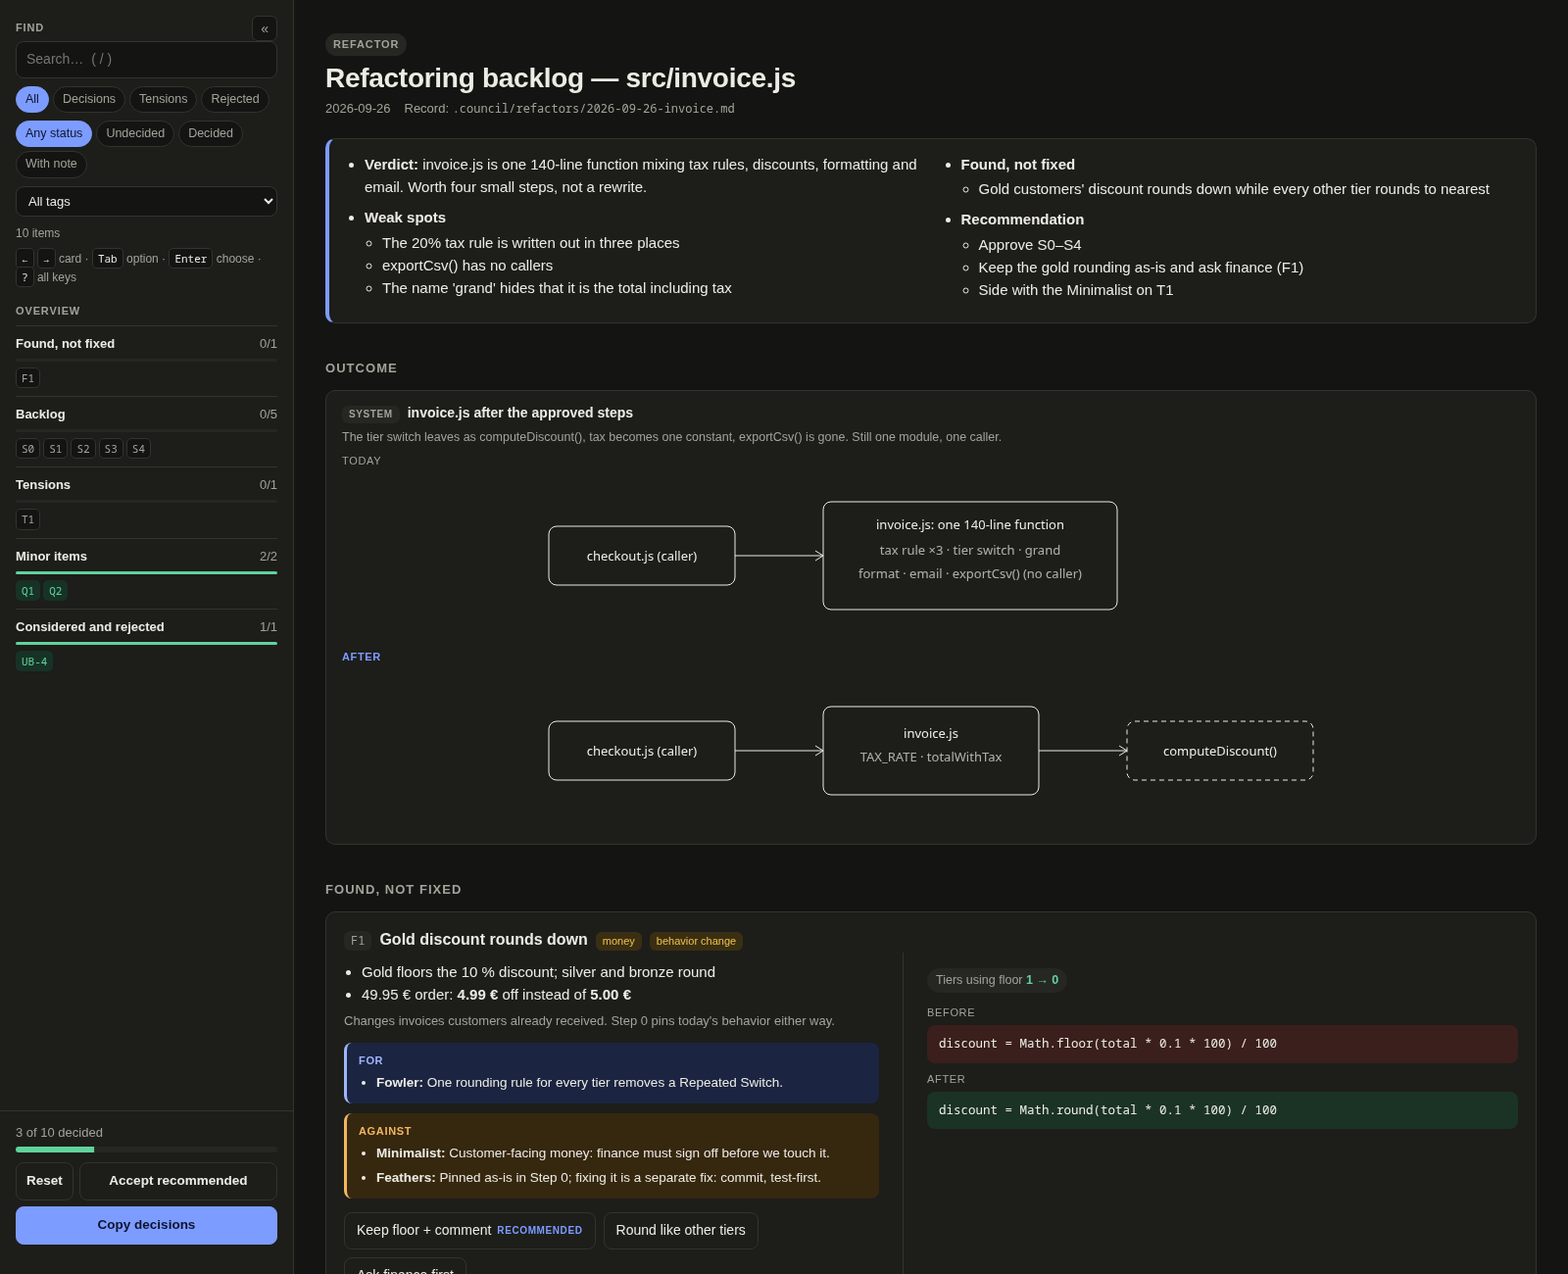
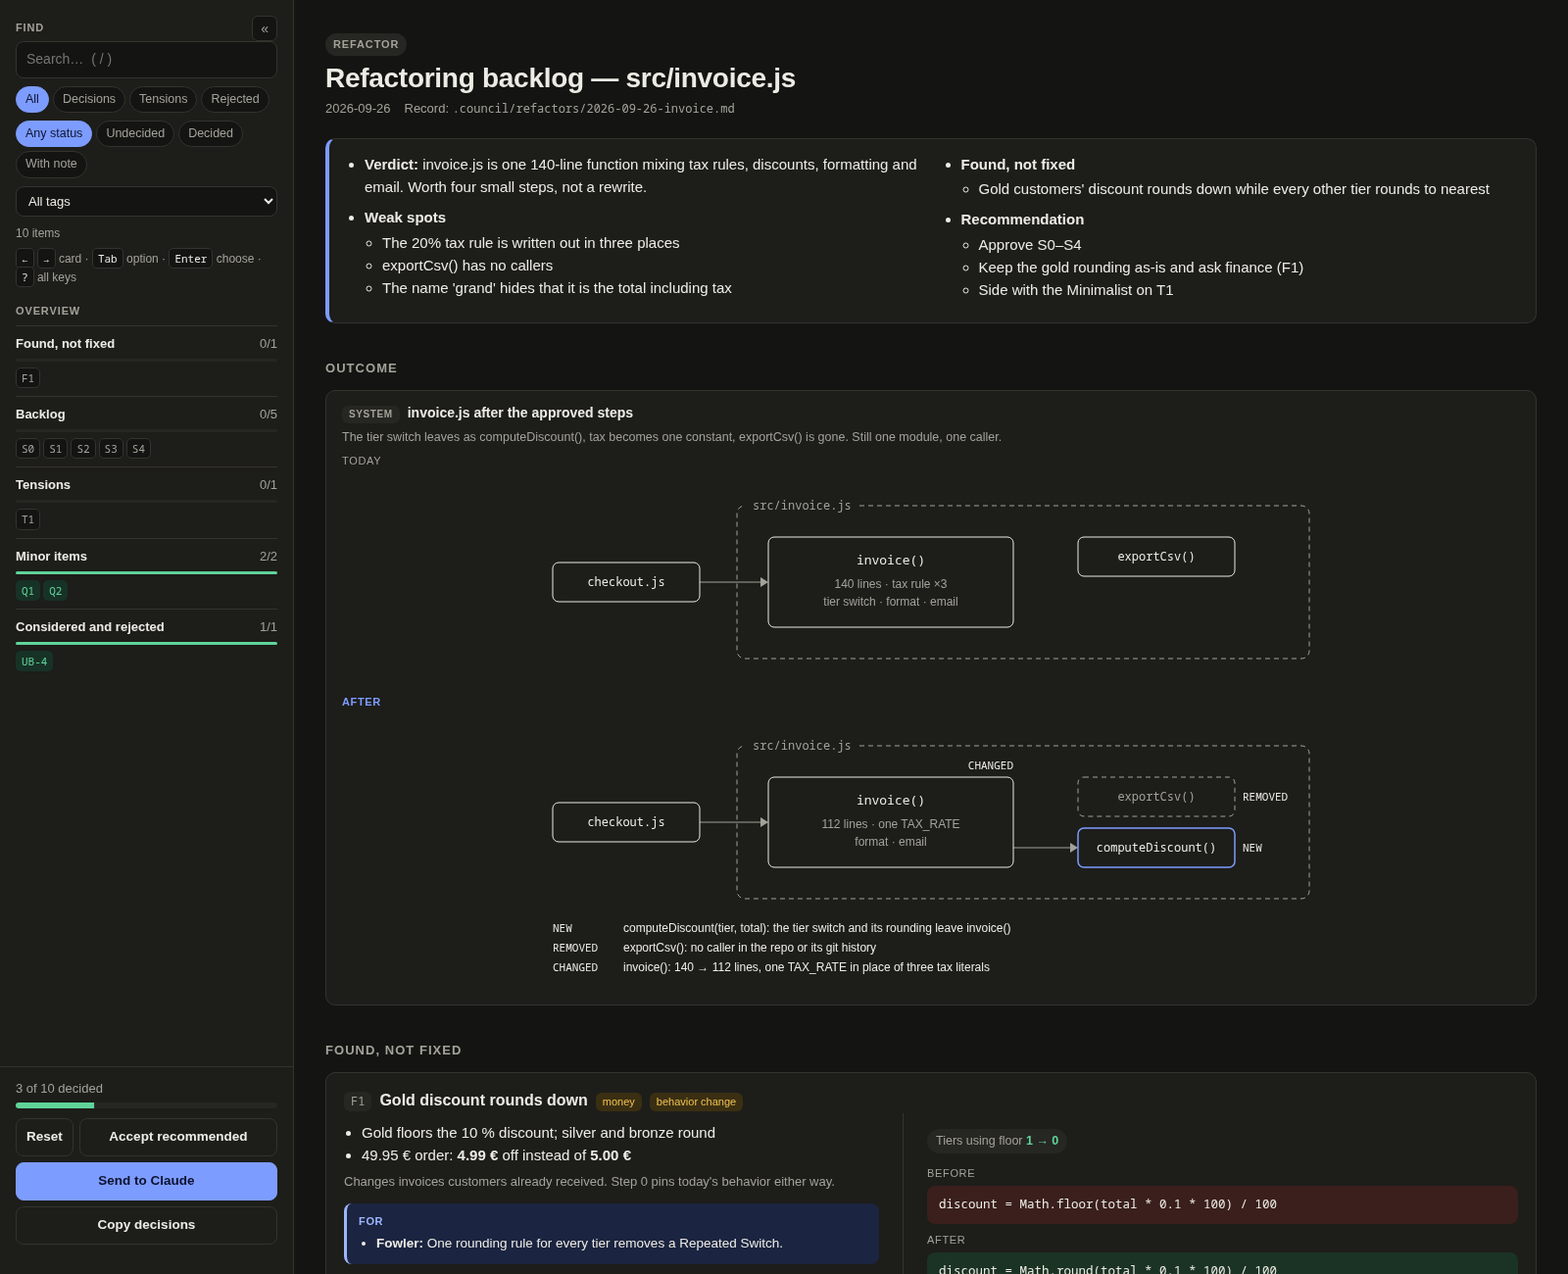
README figures: redraw by the drawing guide
The example gate's outcome now follows figures.md: one layout for today
and after, NEW/REMOVED/CHANGED on the parts, and the change list under
after. The drawings live as src SVGs beside the gate JSON, and
ceo-view.png is re-shot from the served page (Send to Claude).

"How they fit together" is an SVG drawn by the same guide in place of
the Mermaid chart, with plain colour classes (librsvg ignores CSS
variables) and a dark-mode override.

diff --git a/examples/refactor-gate/invoice.html b/examples/refactor-gate/invoice.html
@@ -257,7 +257,7 @@ details.fold .card { margin: 12px 0 0; background: var(--bg); }
   <header id="head"></header>
   <main id="app"></main>
 </div>
-<script type="application/json" id="ceo-data">{"kind":"refactor","title":"Refactoring backlog — src/invoice.js","date":"2026-09-26","source":".council/refactors/2026-09-26-invoice.md","summary":[{"label":"Verdict","text":"invoice.js is one 140-line function mixing tax rules, discounts, formatting and email. Worth four small steps, not a rewrite."},{"label":"Weak spots","points":["The 20% tax rule is written out in three places","exportCsv() has no callers","The name 'grand' hides that it is the total including tax"]},{"label":"Found, not fixed","points":["Gold customers' discount rounds down while every other tier rounds to nearest"]},{"label":"Recommendation","points":["Approve S0–S4","Keep the gold rounding as-is and ask finance (F1)","Side with the Minimalist on T1"]}],"outcome":[{"view":"system","title":"invoice.js after the approved steps","caption":"The tier switch leaves as computeDiscount(), tax becomes one constant, exportCsv() is gone. Still one module, one caller.","before":{"svg":"\u003csvg viewBox='0 0 820 150' xmlns='http://www.w3.org/2000/svg' font-family='ui-sans-serif, system-ui' font-size='13' fill='none' stroke='currentColor'>\u003crect x='20' y='45' width='190' height='60' rx='8'/>\u003ctext x='115' y='80' text-anchor='middle' fill='currentColor' stroke='none'>checkout.js (caller)\u003c/text>\u003crect x='300' y='20' width='300' height='110' rx='8'/>\u003ctext x='450' y='48' text-anchor='middle' fill='currentColor' stroke='none'>invoice.js: one 140-line function\u003c/text>\u003ctext x='450' y='74' text-anchor='middle' fill='currentColor' stroke='none' opacity='.7'>tax rule ×3 · tier switch · grand\u003c/text>\u003ctext x='450' y='98' text-anchor='middle' fill='currentColor' stroke='none' opacity='.7'>format · email · exportCsv() (no caller)\u003c/text>\u003cpath d='M210 75 H300'/>\u003cpath d='M292 70 L300 75 L292 80'/>\u003c/svg>"},"after":{"svg":"\u003csvg viewBox='0 0 820 150' xmlns='http://www.w3.org/2000/svg' font-family='ui-sans-serif, system-ui' font-size='13' fill='none' stroke='currentColor'>\u003crect x='20' y='45' width='190' height='60' rx='8'/>\u003ctext x='115' y='80' text-anchor='middle' fill='currentColor' stroke='none'>checkout.js (caller)\u003c/text>\u003crect x='300' y='30' width='220' height='90' rx='8'/>\u003ctext x='410' y='62' text-anchor='middle' fill='currentColor' stroke='none'>invoice.js\u003c/text>\u003ctext x='410' y='86' text-anchor='middle' fill='currentColor' stroke='none' opacity='.7'>TAX_RATE · totalWithTax\u003c/text>\u003crect x='610' y='45' width='190' height='60' rx='8' stroke-dasharray='5 4'/>\u003ctext x='705' y='80' text-anchor='middle' fill='currentColor' stroke='none'>computeDiscount()\u003c/text>\u003cpath d='M210 75 H300 M520 75 H610'/>\u003cpath d='M292 70 L300 75 L292 80 M602 70 L610 75 L602 80'/>\u003c/svg>"}}],"figures":[],"items":[{"kind":"decision","id":"F1","group":"Found, not fixed","title":"Gold discount rounds down","tags":["money","behavior change"],"detail":["Gold floors the 10 % discount; silver and bronze round","49.95 € order: **4.99 €** off instead of **5.00 €**"],"why":"Changes invoices customers already received. Step 0 pins today's behavior either way.","for":[{"who":"Fowler","point":"One rounding rule for every tier removes a Repeated Switch."}],"against":[{"who":"Minimalist","point":"Customer-facing money: finance must sign off before we touch it."},{"who":"Feathers","point":"Pinned as-is in Step 0; fixing it is a separate fix: commit, test-first."}],"metrics":[{"label":"Tiers using floor","before":1,"after":0,"better":"lower"}],"code":{"before":"discount = Math.floor(total * 0.1 * 100) / 100","after":"discount = Math.round(total * 0.1 * 100) / 100"},"options":[{"value":"keep","label":"Keep floor + comment","recommended":true},{"value":"round","label":"Round like other tiers"},{"value":"ask","label":"Ask finance first","negative":true}],"figures":[]},{"kind":"decision","id":"S0","group":"Backlog","title":"Characterize invoice totals (safety net)","detail":["Pins 9 behaviors: each tier's discount, the 0 € order, tax on shipping, the email subject","Proves they bite by flipping the rounding and the tax constant"],"for":[{"who":"Feathers","point":"Today's two tests only cover the silver path."}],"metrics":[{"label":"Pinned branches","before":2,"after":11,"better":"higher"}],"options":[{"value":"approve","label":"Approve","recommended":true},{"value":"decline","label":"Decline","negative":true,"recommended":false}],"figures":[]},{"kind":"decision","id":"S1","group":"Backlog","title":"Extract Constant: TAX_RATE","detail":"The 20 % rate is written three times: once `0.2`, twice `1.2`.","for":[{"who":"Uncle Bob","point":"A tax change today means three edits."},{"who":"Minimalist","point":"KEEP: removes a present, bug-prone duplication."}],"code":{"before":"const net = gross / 1.2\n// …\nconst tax = net * 0.2\n// …\nconst shippingTtc = shipping * 1.2","after":"const TAX_RATE = 0.2\nconst net = gross / (1 + TAX_RATE)\n// …\nconst tax = net * TAX_RATE\n// …\nconst shippingTtc = shipping * (1 + TAX_RATE)"},"options":[{"value":"approve","label":"Approve","recommended":true},{"value":"decline","label":"Decline","negative":true,"recommended":false}],"figures":[]},{"kind":"decision","id":"S2","group":"Backlog","title":"Rename Variable: grand → totalWithTax","for":[{"who":"Uncle Bob","point":"'grand' is read 11 times and never says what it holds."}],"code":{"before":"const grand = net + tax\nsendInvoice(grand)","after":"const totalWithTax = net + tax\nsendInvoice(totalWithTax)"},"options":[{"value":"approve","label":"Approve","recommended":true},{"value":"decline","label":"Decline","negative":true,"recommended":false}],"figures":[]},{"kind":"decision","id":"S3","group":"Backlog","title":"Remove Dead Code: exportCsv()","for":[{"who":"Minimalist","point":"No callers in the repo or in git history since it was added."}],"metrics":[{"label":"Lines","before":140,"after":112,"better":"lower"}],"options":[{"value":"approve","label":"Approve","recommended":true},{"value":"decline","label":"Decline","negative":true,"recommended":false}],"figures":[]},{"kind":"decision","id":"S4","group":"Backlog","title":"Extract Function: computeDiscount(tier, total)","detail":"Pulls the tier switch out of the main function so the upcoming 'platinum' tier is a one-place edit.","for":[{"who":"Beck","point":"Make the change easy, then make the easy change: platinum lands next sprint."}],"against":[{"who":"Ousterhout","point":"Fine only if it takes the rounding with it; a shallow wrapper would leak it."}],"code":{"before":"if (tier === 'gold') discount = …\nelse if (tier === 'silver') discount = …\nelse discount = …","after":"const discount = computeDiscount(tier, total)"},"options":[{"value":"approve","label":"Approve","recommended":true},{"value":"decline","label":"Decline","negative":true,"recommended":false}],"figures":[]},{"kind":"decision","id":"Q1","title":"Currency symbol printed after a space ('12,00 €')","minor":true,"default":"approve","options":[{"value":"approve","label":"Approve","recommended":true},{"value":"decline","label":"Decline","negative":true,"recommended":false}],"figures":[]},{"kind":"decision","id":"Q2","title":"'Discount: -0.00' printed when there is no discount","minor":true,"default":"approve","options":[{"value":"approve","label":"Approve","recommended":true},{"value":"decline","label":"Decline","negative":true,"recommended":false}],"figures":[]},{"sides":[{"who":"Uncle Bob","position":"Three reasons to change (tax law, layout, mail provider) live in one file. Separate them now while the tests are fresh."},{"who":"Minimalist + Ousterhout","position":"After S1–S4 the file is 110 lines with one caller. Three modules would be shallow and must be read together. Split when a second caller appears.","recommended":true}],"kind":"tension","id":"T1","title":"Split invoice.js into calculate / format / send modules?","group":"Tensions","options":[{"value":"Uncle Bob","label":"Side with Uncle Bob","recommended":false},{"value":"Minimalist + Ousterhout","label":"Side with Minimalist + Ousterhout","recommended":true},{"value":"defer","label":"Defer","negative":true}],"figures":[]},{"id":"UB-4","title":"DiscountStrategy interface with one class per tier","kind":"rejected","group":"Considered and rejected","why":"Rejected because: One use today; the switch is not repeated anywhere. Killed by the Minimalist gate.","options":[{"value":"keep-rejected","label":"Keep rejected","recommended":true},{"value":"revive","label":"Revive"}],"default":"keep-rejected","figures":[]}],"_rev":"bae67d20b035"}</script>
+<script type="application/json" id="ceo-data">{"kind":"refactor","title":"Refactoring backlog — src/invoice.js","date":"2026-09-26","source":".council/refactors/2026-09-26-invoice.md","summary":[{"label":"Verdict","text":"invoice.js is one 140-line function mixing tax rules, discounts, formatting and email. Worth four small steps, not a rewrite."},{"label":"Weak spots","points":["The 20% tax rule is written out in three places","exportCsv() has no callers","The name 'grand' hides that it is the total including tax"]},{"label":"Found, not fixed","points":["Gold customers' discount rounds down while every other tier rounds to nearest"]},{"label":"Recommendation","points":["Approve S0–S4","Keep the gold rounding as-is and ask finance (F1)","Side with the Minimalist on T1"]}],"outcome":[{"view":"system","title":"invoice.js after the approved steps","caption":"The tier switch leaves as computeDiscount(), tax becomes one constant, exportCsv() is gone. Still one module, one caller.","before":{"svg":"\u003csvg xmlns=\"http://www.w3.org/2000/svg\" viewBox=\"0 0 820 196\" font-size=\"12\">\n  \u003crect x=\"212\" y=\"24\" width=\"584\" height=\"156\" rx=\"8\" fill=\"none\" stroke-dasharray=\"5 4\" style=\"stroke: var(--ink-2)\"/>\n  \u003crect x=\"220\" y=\"16\" width=\"116\" height=\"16\" style=\"fill: var(--surface)\"/>\n  \u003ctext x=\"228\" y=\"28\" style=\"fill: var(--ink-2); font-family: var(--mono)\">src/invoice.js\u003c/text>\n\n  \u003cpath d=\"M174 102 H236\" fill=\"none\" style=\"stroke: var(--ink-2)\"/>\n  \u003cpath d=\"M236 97 L244 102 L236 107 Z\" style=\"fill: var(--ink-2)\"/>\n\n  \u003crect x=\"24\" y=\"82\" width=\"150\" height=\"40\" rx=\"6\" stroke=\"currentColor\" style=\"fill: var(--surface)\"/>\n  \u003ctext x=\"99\" y=\"106\" text-anchor=\"middle\" fill=\"currentColor\" style=\"font-family: var(--mono)\">checkout.js\u003c/text>\n\n  \u003crect x=\"244\" y=\"56\" width=\"250\" height=\"92\" rx=\"6\" stroke=\"currentColor\" style=\"fill: var(--surface)\"/>\n  \u003ctext x=\"369\" y=\"84\" text-anchor=\"middle\" fill=\"currentColor\" font-size=\"13\" style=\"font-family: var(--mono)\">invoice()\u003c/text>\n  \u003ctext x=\"369\" y=\"108\" text-anchor=\"middle\" style=\"fill: var(--ink-2)\">140 lines · tax rule ×3\u003c/text>\n  \u003ctext x=\"369\" y=\"126\" text-anchor=\"middle\" style=\"fill: var(--ink-2)\">tier switch · format · email\u003c/text>\n\n  \u003crect x=\"560\" y=\"56\" width=\"160\" height=\"40\" rx=\"6\" stroke=\"currentColor\" style=\"fill: var(--surface)\"/>\n  \u003ctext x=\"640\" y=\"80\" text-anchor=\"middle\" fill=\"currentColor\" style=\"font-family: var(--mono)\">exportCsv()\u003c/text>\n\u003c/svg>\n"},"after":{"svg":"\u003csvg xmlns=\"http://www.w3.org/2000/svg\" viewBox=\"0 0 820 268\" font-size=\"12\">\n  \u003crect x=\"212\" y=\"24\" width=\"584\" height=\"156\" rx=\"8\" fill=\"none\" stroke-dasharray=\"5 4\" style=\"stroke: var(--ink-2)\"/>\n  \u003crect x=\"220\" y=\"16\" width=\"116\" height=\"16\" style=\"fill: var(--surface)\"/>\n  \u003ctext x=\"228\" y=\"28\" style=\"fill: var(--ink-2); font-family: var(--mono)\">src/invoice.js\u003c/text>\n\n  \u003cpath d=\"M174 102 H236\" fill=\"none\" style=\"stroke: var(--ink-2)\"/>\n  \u003cpath d=\"M236 97 L244 102 L236 107 Z\" style=\"fill: var(--ink-2)\"/>\n  \u003cpath d=\"M494 128 H552\" fill=\"none\" style=\"stroke: var(--ink-2)\"/>\n  \u003cpath d=\"M552 123 L560 128 L552 133 Z\" style=\"fill: var(--ink-2)\"/>\n\n  \u003crect x=\"24\" y=\"82\" width=\"150\" height=\"40\" rx=\"6\" stroke=\"currentColor\" style=\"fill: var(--surface)\"/>\n  \u003ctext x=\"99\" y=\"106\" text-anchor=\"middle\" fill=\"currentColor\" style=\"font-family: var(--mono)\">checkout.js\u003c/text>\n\n  \u003crect x=\"244\" y=\"56\" width=\"250\" height=\"92\" rx=\"6\" stroke=\"currentColor\" style=\"fill: var(--surface)\"/>\n  \u003ctext x=\"369\" y=\"84\" text-anchor=\"middle\" fill=\"currentColor\" font-size=\"13\" style=\"font-family: var(--mono)\">invoice()\u003c/text>\n  \u003ctext x=\"369\" y=\"108\" text-anchor=\"middle\" style=\"fill: var(--ink-2)\">112 lines · one TAX_RATE\u003c/text>\n  \u003ctext x=\"369\" y=\"126\" text-anchor=\"middle\" style=\"fill: var(--ink-2)\">format · email\u003c/text>\n  \u003ctext x=\"494\" y=\"48\" text-anchor=\"end\" font-size=\"11\" fill=\"currentColor\" style=\"font-family: var(--mono)\">CHANGED\u003c/text>\n\n  \u003crect x=\"560\" y=\"56\" width=\"160\" height=\"40\" rx=\"6\" stroke-dasharray=\"5 4\" style=\"fill: var(--surface); stroke: var(--ink-2)\"/>\n  \u003ctext x=\"640\" y=\"80\" text-anchor=\"middle\" style=\"fill: var(--ink-2); font-family: var(--mono)\">exportCsv()\u003c/text>\n  \u003ctext x=\"728\" y=\"80\" font-size=\"11\" fill=\"currentColor\" style=\"font-family: var(--mono)\">REMOVED\u003c/text>\n\n  \u003crect x=\"560\" y=\"108\" width=\"160\" height=\"40\" rx=\"6\" stroke-width=\"1.5\" style=\"fill: var(--surface); stroke: var(--accent)\"/>\n  \u003ctext x=\"640\" y=\"132\" text-anchor=\"middle\" fill=\"currentColor\" style=\"font-family: var(--mono)\">computeDiscount()\u003c/text>\n  \u003ctext x=\"728\" y=\"132\" font-size=\"11\" fill=\"currentColor\" style=\"font-family: var(--mono)\">NEW\u003c/text>\n\n  \u003ctext x=\"24\" y=\"214\" fill=\"currentColor\">\u003ctspan font-size=\"11\" style=\"font-family: var(--mono)\">NEW\u003c/tspan>\u003ctspan x=\"96\">computeDiscount(tier, total): the tier switch and its rounding leave invoice()\u003c/tspan>\u003c/text>\n  \u003ctext x=\"24\" y=\"234\" fill=\"currentColor\">\u003ctspan font-size=\"11\" style=\"font-family: var(--mono)\">REMOVED\u003c/tspan>\u003ctspan x=\"96\">exportCsv(): no caller in the repo or its git history\u003c/tspan>\u003c/text>\n  \u003ctext x=\"24\" y=\"254\" fill=\"currentColor\">\u003ctspan font-size=\"11\" style=\"font-family: var(--mono)\">CHANGED\u003c/tspan>\u003ctspan x=\"96\">invoice(): 140 → 112 lines, one TAX_RATE in place of three tax literals\u003c/tspan>\u003c/text>\n\u003c/svg>\n"}}],"figures":[],"items":[{"kind":"decision","id":"F1","group":"Found, not fixed","title":"Gold discount rounds down","tags":["money","behavior change"],"detail":["Gold floors the 10 % discount; silver and bronze round","49.95 € order: **4.99 €** off instead of **5.00 €**"],"why":"Changes invoices customers already received. Step 0 pins today's behavior either way.","for":[{"who":"Fowler","point":"One rounding rule for every tier removes a Repeated Switch."}],"against":[{"who":"Minimalist","point":"Customer-facing money: finance must sign off before we touch it."},{"who":"Feathers","point":"Pinned as-is in Step 0; fixing it is a separate fix: commit, test-first."}],"metrics":[{"label":"Tiers using floor","before":1,"after":0,"better":"lower"}],"code":{"before":"discount = Math.floor(total * 0.1 * 100) / 100","after":"discount = Math.round(total * 0.1 * 100) / 100"},"options":[{"value":"keep","label":"Keep floor + comment","recommended":true},{"value":"round","label":"Round like other tiers"},{"value":"ask","label":"Ask finance first","negative":true}],"figures":[]},{"kind":"decision","id":"S0","group":"Backlog","title":"Characterize invoice totals (safety net)","detail":["Pins 9 behaviors: each tier's discount, the 0 € order, tax on shipping, the email subject","Proves they bite by flipping the rounding and the tax constant"],"for":[{"who":"Feathers","point":"Today's two tests only cover the silver path."}],"metrics":[{"label":"Pinned branches","before":2,"after":11,"better":"higher"}],"options":[{"value":"approve","label":"Approve","recommended":true},{"value":"decline","label":"Decline","negative":true,"recommended":false}],"figures":[]},{"kind":"decision","id":"S1","group":"Backlog","title":"Extract Constant: TAX_RATE","detail":"The 20 % rate is written three times: once `0.2`, twice `1.2`.","for":[{"who":"Uncle Bob","point":"A tax change today means three edits."},{"who":"Minimalist","point":"KEEP: removes a present, bug-prone duplication."}],"code":{"before":"const net = gross / 1.2\n// …\nconst tax = net * 0.2\n// …\nconst shippingTtc = shipping * 1.2","after":"const TAX_RATE = 0.2\nconst net = gross / (1 + TAX_RATE)\n// …\nconst tax = net * TAX_RATE\n// …\nconst shippingTtc = shipping * (1 + TAX_RATE)"},"options":[{"value":"approve","label":"Approve","recommended":true},{"value":"decline","label":"Decline","negative":true,"recommended":false}],"figures":[]},{"kind":"decision","id":"S2","group":"Backlog","title":"Rename Variable: grand → totalWithTax","for":[{"who":"Uncle Bob","point":"'grand' is read 11 times and never says what it holds."}],"code":{"before":"const grand = net + tax\nsendInvoice(grand)","after":"const totalWithTax = net + tax\nsendInvoice(totalWithTax)"},"options":[{"value":"approve","label":"Approve","recommended":true},{"value":"decline","label":"Decline","negative":true,"recommended":false}],"figures":[]},{"kind":"decision","id":"S3","group":"Backlog","title":"Remove Dead Code: exportCsv()","for":[{"who":"Minimalist","point":"No callers in the repo or in git history since it was added."}],"metrics":[{"label":"Lines","before":140,"after":112,"better":"lower"}],"options":[{"value":"approve","label":"Approve","recommended":true},{"value":"decline","label":"Decline","negative":true,"recommended":false}],"figures":[]},{"kind":"decision","id":"S4","group":"Backlog","title":"Extract Function: computeDiscount(tier, total)","detail":"Pulls the tier switch out of the main function so the upcoming 'platinum' tier is a one-place edit.","for":[{"who":"Beck","point":"Make the change easy, then make the easy change: platinum lands next sprint."}],"against":[{"who":"Ousterhout","point":"Fine only if it takes the rounding with it; a shallow wrapper would leak it."}],"code":{"before":"if (tier === 'gold') discount = …\nelse if (tier === 'silver') discount = …\nelse discount = …","after":"const discount = computeDiscount(tier, total)"},"options":[{"value":"approve","label":"Approve","recommended":true},{"value":"decline","label":"Decline","negative":true,"recommended":false}],"figures":[]},{"kind":"decision","id":"Q1","title":"Currency symbol printed after a space ('12,00 €')","minor":true,"default":"approve","options":[{"value":"approve","label":"Approve","recommended":true},{"value":"decline","label":"Decline","negative":true,"recommended":false}],"figures":[]},{"kind":"decision","id":"Q2","title":"'Discount: -0.00' printed when there is no discount","minor":true,"default":"approve","options":[{"value":"approve","label":"Approve","recommended":true},{"value":"decline","label":"Decline","negative":true,"recommended":false}],"figures":[]},{"sides":[{"who":"Uncle Bob","position":"Three reasons to change (tax law, layout, mail provider) live in one file. Separate them now while the tests are fresh."},{"who":"Minimalist + Ousterhout","position":"After S1–S4 the file is 110 lines with one caller. Three modules would be shallow and must be read together. Split when a second caller appears.","recommended":true}],"kind":"tension","id":"T1","title":"Split invoice.js into calculate / format / send modules?","group":"Tensions","options":[{"value":"Uncle Bob","label":"Side with Uncle Bob","recommended":false},{"value":"Minimalist + Ousterhout","label":"Side with Minimalist + Ousterhout","recommended":true},{"value":"defer","label":"Defer","negative":true}],"figures":[]},{"id":"UB-4","title":"DiscountStrategy interface with one class per tier","kind":"rejected","group":"Considered and rejected","why":"Rejected because: One use today; the switch is not repeated anywhere. Killed by the Minimalist gate.","options":[{"value":"keep-rejected","label":"Keep rejected","recommended":true},{"value":"revive","label":"Revive"}],"default":"keep-rejected","figures":[]}],"_rev":"41ab2dc8f882"}</script>
 <script>
 (function () {
   var data = JSON.parse(document.getElementById('ceo-data').textContent);

diff --git a/README.md b/README.md
@@ -18,24 +18,7 @@
 
 ## How they fit together
 
-```mermaid
-flowchart LR
-    subgraph protocol["team-protocol · shared rules: dispatch, counting, handoff"]
-        kickoff[team-kickoff<br/>new project]
-        council[team-council<br/>debate → decision]
-        plan[team-council-plan<br/>decision → plan]
-        refactor[team-refactor<br/>panel → backlog]
-    end
-    scan[team-scan<br/>project profile] --> council
-    scan --> refactor
-    kickoff --> scan
-    kickoff --> council
-    council --> plan
-    council -. CEO gate .-> view((team-ceo-view))
-    plan -. CEO gate .-> view
-    kickoff -. CEO gate .-> view
-    refactor -. CEO gate .-> view
-```
+![team-scan writes the project profile that team-council and team-refactor read; team-kickoff runs team-scan, then team-council; team-council's decision feeds team-council-plan. All four skills run under team-protocol's shared rules, and each ends at a CEO gate rendered by team-ceo-view, where you decide.](docs/how-they-fit.svg)
 
 Everything a run produces is plain Markdown under `.council/` in your project, so it can be committed and diffed:
 
